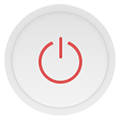
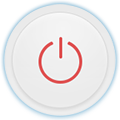
优化关闭电源按钮UX；增加电视控制控件

Changed region(s): [[0.0, 0.0, 1.0, 1.0], [0.35, 0.1, 0.7, 0.175], [0.3, 0.15, 0.325, 0.175]]

diff --git a/智能家居系统/MainForm.Designer.cs b/智能家居系统/MainForm.Designer.cs
@@ -29,6 +29,7 @@
         private void InitializeComponent()
         {
             this.components = new System.ComponentModel.Container();
+            System.ComponentModel.ComponentResourceManager resources = new System.ComponentModel.ComponentResourceManager(typeof(MainForm));
             this.LeftPanel = new 智能家居系统.MyPanel();
             this.LogoPanel = new 智能家居系统.MyPanel();
             this.FunctionButtonPanel = new System.Windows.Forms.FlowLayoutPanel();
@@ -48,6 +49,9 @@
             this.TipsIconLabel = new System.Windows.Forms.Label();
             this.TipsMessageLabel = new System.Windows.Forms.Label();
             this.TipsTitleLabel = new System.Windows.Forms.Label();
+            this.ControlPanel = new 智能家居系统.MyPanel();
+            this.ExecuteButton = new System.Windows.Forms.Label();
+            this.PowerButton = new System.Windows.Forms.Label();
             this.InfoPanel = new 智能家居系统.MyPanel();
             this.EventListView = new System.Windows.Forms.ListView();
             this.EventTimeColumnHeader = ((System.Windows.Forms.ColumnHeader)(new System.Windows.Forms.ColumnHeader()));
@@ -70,10 +74,10 @@
             this.MACValueLabel = new System.Windows.Forms.Label();
             this.MACLabel = new System.Windows.Forms.Label();
             this.CardPanel = new 智能家居系统.MyPanel();
-            this.ControlPanel = new 智能家居系统.MyPanel();
-            this.TVPanel = new 智能家居系统.MyPanel();
-            this.PowerButton = new System.Windows.Forms.Label();
             this.SystemEngine = new System.Windows.Forms.Timer(this.components);
+            this.TVPanel = new 智能家居系统.MyPanel();
+            this.ChannelBox = new System.Windows.Forms.TextBox();
+            this.ChannelLabel = new System.Windows.Forms.Label();
             this.LeftPanel.SuspendLayout();
             this.LogoPanel.SuspendLayout();
             this.FunctionButtonPanel.SuspendLayout();
@@ -81,9 +85,10 @@
             this.TopPanel.SuspendLayout();
             this.MainPanel.SuspendLayout();
             this.TipsBox.SuspendLayout();
+            this.ControlPanel.SuspendLayout();
             this.InfoPanel.SuspendLayout();
             this.InfoTablePanel.SuspendLayout();
-            this.ControlPanel.SuspendLayout();
+            this.TVPanel.SuspendLayout();
             this.SuspendLayout();
             // 
             // LeftPanel
@@ -298,9 +303,9 @@
             // 
             this.MainPanel.BackColor = System.Drawing.Color.White;
             this.MainPanel.Controls.Add(this.TipsBox);
+            this.MainPanel.Controls.Add(this.ControlPanel);
             this.MainPanel.Controls.Add(this.InfoPanel);
             this.MainPanel.Controls.Add(this.CardPanel);
-            this.MainPanel.Controls.Add(this.ControlPanel);
             this.MainPanel.Dock = System.Windows.Forms.DockStyle.Fill;
             this.MainPanel.Location = new System.Drawing.Point(241, 81);
             this.MainPanel.Name = "MainPanel";
@@ -365,6 +370,51 @@
             this.TipsTitleLabel.Text = "智能家居解决方案";
             this.TipsTitleLabel.TextAlign = System.Drawing.ContentAlignment.MiddleLeft;
             this.TipsTitleLabel.Click += new System.EventHandler(this.TipsTitleLabel_Click);
+            // 
+            // ControlPanel
+            // 
+            this.ControlPanel.BackColor = System.Drawing.Color.Transparent;
+            this.ControlPanel.Controls.Add(this.TVPanel);
+            this.ControlPanel.Controls.Add(this.ExecuteButton);
+            this.ControlPanel.Controls.Add(this.PowerButton);
+            this.ControlPanel.Location = new System.Drawing.Point(0, 0);
+            this.ControlPanel.Name = "ControlPanel";
+            this.ControlPanel.Padding = new System.Windows.Forms.Padding(15);
+            this.ControlPanel.Size = new System.Drawing.Size(558, 518);
+            this.ControlPanel.TabIndex = 3;
+            // 
+            // ExecuteButton
+            // 
+            this.ExecuteButton.BackColor = System.Drawing.Color.Transparent;
+            this.ExecuteButton.Dock = System.Windows.Forms.DockStyle.Bottom;
+            this.ExecuteButton.ForeColor = System.Drawing.Color.FromArgb(((int)(((byte)(26)))), ((int)(((byte)(190)))), ((int)(((byte)(238)))));
+            this.ExecuteButton.Image = global::智能家居系统.UnityResource.Execute_0;
+            this.ExecuteButton.Location = new System.Drawing.Point(15, 383);
+            this.ExecuteButton.Margin = new System.Windows.Forms.Padding(0);
+            this.ExecuteButton.Name = "ExecuteButton";
+            this.ExecuteButton.Size = new System.Drawing.Size(528, 120);
+            this.ExecuteButton.TabIndex = 5;
+            this.ExecuteButton.Tag = "Execute";
+            this.ExecuteButton.TextAlign = System.Drawing.ContentAlignment.BottomCenter;
+            this.ExecuteButton.Click += new System.EventHandler(this.ExecuteButton_Click);
+            // 
+            // PowerButton
+            // 
+            this.PowerButton.BackColor = System.Drawing.Color.Transparent;
+            this.PowerButton.Dock = System.Windows.Forms.DockStyle.Top;
+            this.PowerButton.ForeColor = System.Drawing.Color.FromArgb(((int)(((byte)(26)))), ((int)(((byte)(190)))), ((int)(((byte)(238)))));
+            this.PowerButton.Image = ((System.Drawing.Image)(resources.GetObject("PowerButton.Image")));
+            this.PowerButton.Location = new System.Drawing.Point(15, 15);
+            this.PowerButton.Margin = new System.Windows.Forms.Padding(0);
+            this.PowerButton.Name = "PowerButton";
+            this.PowerButton.Size = new System.Drawing.Size(528, 120);
+            this.PowerButton.TabIndex = 4;
+            this.PowerButton.Tag = "";
+            this.PowerButton.TextAlign = System.Drawing.ContentAlignment.BottomCenter;
+            this.PowerButton.Click += new System.EventHandler(this.PowerButton_Click);
+            this.PowerButton.MouseDown += new System.Windows.Forms.MouseEventHandler(this.PowerButton_MouseDown);
+            this.PowerButton.MouseEnter += new System.EventHandler(this.PowerButton_MouseEnter);
+            this.PowerButton.MouseLeave += new System.EventHandler(this.PowerButton_MouseLeave);
             // 
             // InfoPanel
             // 
@@ -655,46 +705,42 @@
             this.CardPanel.TabIndex = 5;
             this.CardPanel.Visible = false;
             // 
-            // ControlPanel
+            // SystemEngine
             // 
-            this.ControlPanel.BackColor = System.Drawing.Color.Transparent;
-            this.ControlPanel.Controls.Add(this.TVPanel);
-            this.ControlPanel.Controls.Add(this.PowerButton);
-            this.ControlPanel.Location = new System.Drawing.Point(0, 0);
-            this.ControlPanel.Name = "ControlPanel";
-            this.ControlPanel.Padding = new System.Windows.Forms.Padding(15);
-            this.ControlPanel.Size = new System.Drawing.Size(558, 518);
-            this.ControlPanel.TabIndex = 3;
+            this.SystemEngine.Enabled = true;
+            this.SystemEngine.Interval = 5000;
+            this.SystemEngine.Tick += new System.EventHandler(this.SystemEngine_Tick);
             // 
             // TVPanel
             // 
+            this.TVPanel.Controls.Add(this.ChannelLabel);
+            this.TVPanel.Controls.Add(this.ChannelBox);
             this.TVPanel.Dock = System.Windows.Forms.DockStyle.Fill;
             this.TVPanel.Location = new System.Drawing.Point(15, 135);
             this.TVPanel.Name = "TVPanel";
-            this.TVPanel.Size = new System.Drawing.Size(528, 368);
-            this.TVPanel.TabIndex = 5;
+            this.TVPanel.Size = new System.Drawing.Size(528, 248);
+            this.TVPanel.TabIndex = 6;
             // 
-            // PowerButton
+            // ChannelBox
             // 
-            this.PowerButton.BackColor = System.Drawing.Color.Transparent;
-            this.PowerButton.Dock = System.Windows.Forms.DockStyle.Top;
-            this.PowerButton.ForeColor = System.Drawing.Color.FromArgb(((int)(((byte)(26)))), ((int)(((byte)(190)))), ((int)(((byte)(238)))));
-            this.PowerButton.Image = global::智能家居系统.UnityResource.Power_true_0;
-            this.PowerButton.Location = new System.Drawing.Point(15, 15);
-            this.PowerButton.Margin = new System.Windows.Forms.Padding(0);
-            this.PowerButton.Name = "PowerButton";
-            this.PowerButton.Size = new System.Drawing.Size(528, 120);
-            this.PowerButton.TabIndex = 4;
-            this.PowerButton.Tag = "true";
-            this.PowerButton.TextAlign = System.Drawing.ContentAlignment.BottomCenter;
-            this.PowerButton.Click += new System.EventHandler(this.PowerButton_Click);
-            this.PowerButton.MouseEnter += new System.EventHandler(this.PowerButton_MouseEnter);
-            this.PowerButton.MouseLeave += new System.EventHandler(this.PowerButton_MouseLeave);
+            this.ChannelBox.BorderStyle = System.Windows.Forms.BorderStyle.FixedSingle;
+            this.ChannelBox.Font = new System.Drawing.Font("微软雅黑", 15F, System.Drawing.FontStyle.Bold, System.Drawing.GraphicsUnit.Point, ((byte)(134)));
+            this.ChannelBox.Location = new System.Drawing.Point(258, 116);
+            this.ChannelBox.Name = "ChannelBox";
+            this.ChannelBox.Size = new System.Drawing.Size(192, 34);
+            this.ChannelBox.TabIndex = 0;
+            this.ChannelBox.Text = "5";
+            this.ChannelBox.TextAlign = System.Windows.Forms.HorizontalAlignment.Center;
             // 
-            // SystemEngine
+            // ChannelLabel
             // 
-            this.SystemEngine.Interval = 5000;
-            this.SystemEngine.Tick += new System.EventHandler(this.SystemEngine_Tick);
+            this.ChannelLabel.Font = new System.Drawing.Font("微软雅黑", 14.25F, System.Drawing.FontStyle.Regular, System.Drawing.GraphicsUnit.Point, ((byte)(134)));
+            this.ChannelLabel.Location = new System.Drawing.Point(82, 113);
+            this.ChannelLabel.Name = "ChannelLabel";
+            this.ChannelLabel.Size = new System.Drawing.Size(162, 37);
+            this.ChannelLabel.TabIndex = 10;
+            this.ChannelLabel.Text = "频道：";
+            this.ChannelLabel.TextAlign = System.Drawing.ContentAlignment.MiddleRight;
             // 
             // MainForm
             // 
@@ -724,11 +770,13 @@
             this.TopPanel.ResumeLayout(false);
             this.MainPanel.ResumeLayout(false);
             this.TipsBox.ResumeLayout(false);
+            this.ControlPanel.ResumeLayout(false);
             this.InfoPanel.ResumeLayout(false);
             this.InfoPanel.PerformLayout();
             this.InfoTablePanel.ResumeLayout(false);
             this.InfoTablePanel.PerformLayout();
-            this.ControlPanel.ResumeLayout(false);
+            this.TVPanel.ResumeLayout(false);
+            this.TVPanel.PerformLayout();
             this.ResumeLayout(false);
 
         }
@@ -778,7 +826,10 @@
         private System.Windows.Forms.Label TipsIconLabel;
         private System.Windows.Forms.Label TipsMessageLabel;
         private System.Windows.Forms.Label TipsTitleLabel;
+        private System.Windows.Forms.Label ExecuteButton;
         private MyPanel TVPanel;
+        private System.Windows.Forms.TextBox ChannelBox;
+        private System.Windows.Forms.Label ChannelLabel;
     }
 }
 

diff --git a/智能家居系统/UnityResource.Designer.cs b/智能家居系统/UnityResource.Designer.cs
@@ -283,6 +283,36 @@ namespace 智能家居系统 {
         /// <summary>
         ///   查找 System.Drawing.Bitmap 类型的本地化资源。
         /// </summary>
+        internal static System.Drawing.Bitmap Execute_0 {
+            get {
+                object obj = ResourceManager.GetObject("Execute_0", resourceCulture);
+                return ((System.Drawing.Bitmap)(obj));
+            }
+        }
+        
+        /// <summary>
+        ///   查找 System.Drawing.Bitmap 类型的本地化资源。
+        /// </summary>
+        internal static System.Drawing.Bitmap Execute_1 {
+            get {
+                object obj = ResourceManager.GetObject("Execute_1", resourceCulture);
+                return ((System.Drawing.Bitmap)(obj));
+            }
+        }
+        
+        /// <summary>
+        ///   查找 System.Drawing.Bitmap 类型的本地化资源。
+        /// </summary>
+        internal static System.Drawing.Bitmap Execute_2 {
+            get {
+                object obj = ResourceManager.GetObject("Execute_2", resourceCulture);
+                return ((System.Drawing.Bitmap)(obj));
+            }
+        }
+        
+        /// <summary>
+        ///   查找 System.Drawing.Bitmap 类型的本地化资源。
+        /// </summary>
         internal static System.Drawing.Bitmap ExitApp_0 {
             get {
                 object obj = ResourceManager.GetObject("ExitApp_0", resourceCulture);
@@ -403,6 +433,16 @@ namespace 智能家居系统 {
         /// <summary>
         ///   查找 System.Drawing.Bitmap 类型的本地化资源。
         /// </summary>
+        internal static System.Drawing.Bitmap Power_0 {
+            get {
+                object obj = ResourceManager.GetObject("Power_0", resourceCulture);
+                return ((System.Drawing.Bitmap)(obj));
+            }
+        }
+        
+        /// <summary>
+        ///   查找 System.Drawing.Bitmap 类型的本地化资源。
+        /// </summary>
         internal static System.Drawing.Bitmap Power_1 {
             get {
                 object obj = ResourceManager.GetObject("Power_1", resourceCulture);
@@ -413,19 +453,9 @@ namespace 智能家居系统 {
         /// <summary>
         ///   查找 System.Drawing.Bitmap 类型的本地化资源。
         /// </summary>
-        internal static System.Drawing.Bitmap Power_false_0 {
+        internal static System.Drawing.Bitmap Power_2 {
             get {
-                object obj = ResourceManager.GetObject("Power_false_0", resourceCulture);
-                return ((System.Drawing.Bitmap)(obj));
-            }
-        }
-        
-        /// <summary>
-        ///   查找 System.Drawing.Bitmap 类型的本地化资源。
-        /// </summary>
-        internal static System.Drawing.Bitmap Power_true_0 {
-            get {
-                object obj = ResourceManager.GetObject("Power_true_0", resourceCulture);
+                object obj = ResourceManager.GetObject("Power_2", resourceCulture);
                 return ((System.Drawing.Bitmap)(obj));
             }
         }

diff --git a/智能家居系统/MainForm.cs b/智能家居系统/MainForm.cs
@@ -182,6 +182,11 @@ namespace 智能家居系统
             CardLabel.MouseDown += new MouseEventHandler(Button_MouseDown);
             CardLabel.MouseUp += new MouseEventHandler(Button_MouseUp);
 
+            ExecuteButton.MouseEnter += new EventHandler(Button_MouseEnter);
+            ExecuteButton.MouseLeave += new EventHandler(Button_MouseLeave);
+            ExecuteButton.MouseDown += new MouseEventHandler(Button_MouseDown);
+            ExecuteButton.MouseUp += new MouseEventHandler(Button_MouseUp);
+
             ExitButton.MouseEnter += new EventHandler(Button_MouseEnter);
             ExitButton.MouseDown += new MouseEventHandler(Button_MouseDown);
             ExitButton.MouseLeave += new EventHandler(Button_MouseLeave);
@@ -678,8 +683,9 @@ namespace 智能家居系统
         private void PowerButton_Click(object sender, EventArgs e)
         {
             if (DomesticApplianceItem.ActiveItem == null) return;
+            PowerButton.Image = UnityResource.Power_1;
             if (new MyMessageBox(string.Format("您确定要关闭家电 {0} 的电源吗？",DomesticApplianceItem.ActiveItem.Tag.ToString()),MyMessageBox.IconType.Question).ShowDialog(this) != DialogResult.OK) return;
-
+            PowerButton.Image = UnityResource.Power_0;
             ShutdownDA(DomesticApplianceItem.ActiveItem.MAC);
 
             ShowTipsMessage("家电关闭成功：","家电 "+ DomesticApplianceItem.ActiveItem.Tag.ToString() +" 已关闭！",MyMessageBox.IconType.Info);
@@ -694,10 +700,16 @@ namespace 智能家居系统
             PowerButton.Image = UnityResource.Power_1;
         }
 
+        private void PowerButton_MouseDown(object sender, MouseEventArgs e)
+        {
+            if (DomesticApplianceItem.ActiveItem == null) return;
+            PowerButton.Image = UnityResource.Power_2;
+        }
+
         private void PowerButton_MouseLeave(object sender, EventArgs e)
         {
             if (DomesticApplianceItem.ActiveItem == null) return;
-            PowerButton.Image = UnityResource.Power_true_0;
+            PowerButton.Image = UnityResource.Power_0;
         }
 
         /// <summary>
@@ -812,5 +824,9 @@ namespace 智能家居系统
 
         #endregion
 
+        private void ExecuteButton_Click(object sender, EventArgs e)
+        {
+
+        }
     }
 }
